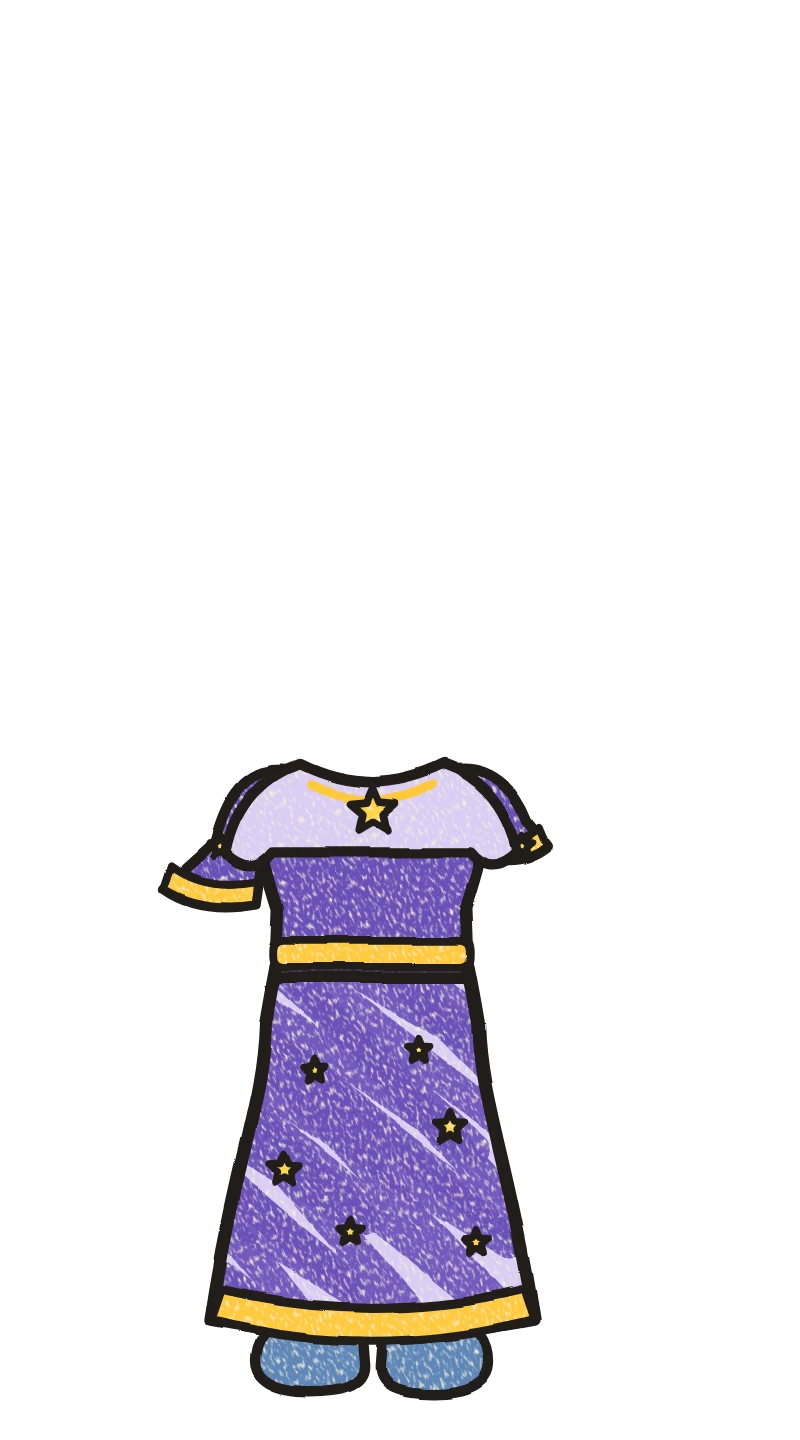
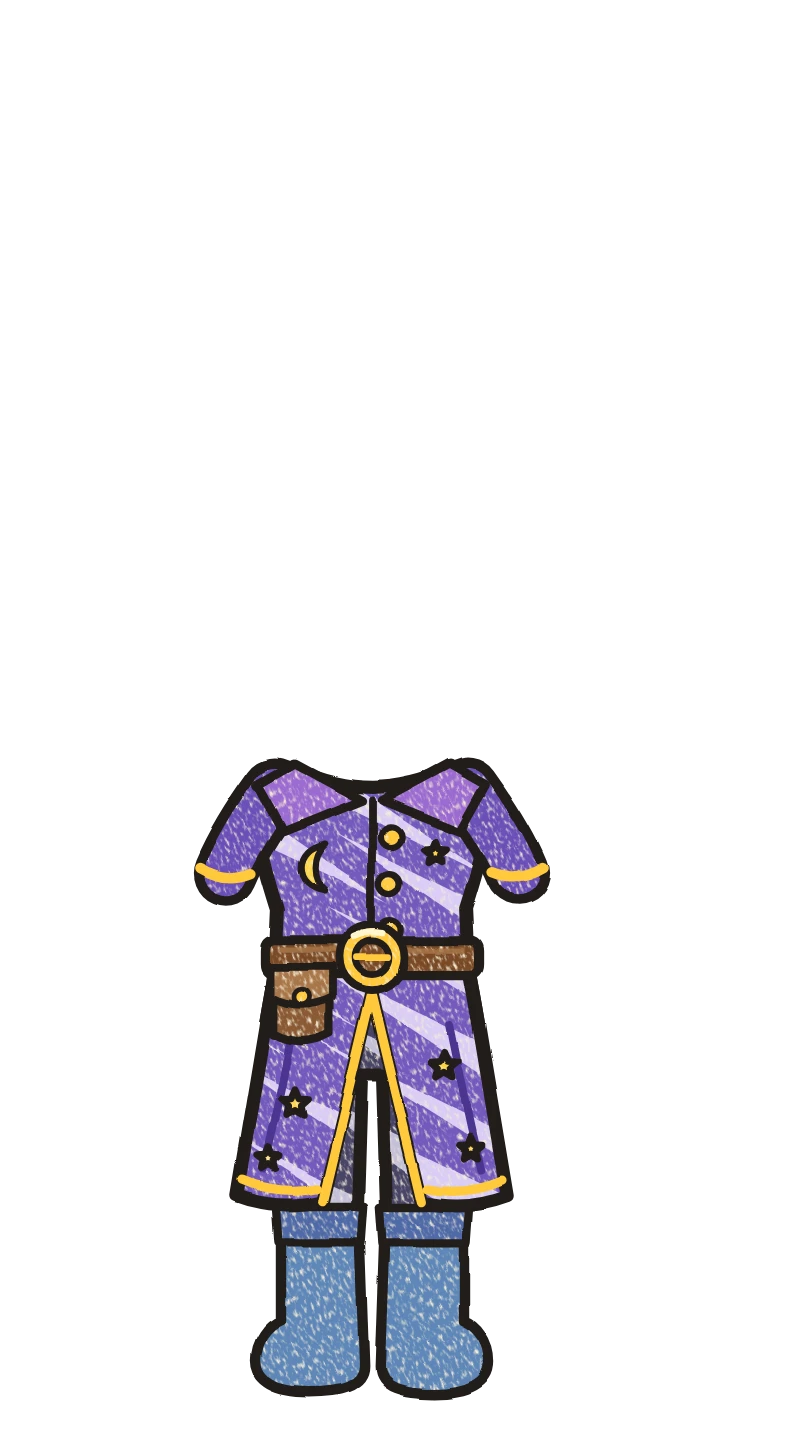
The prince's own wizard coat, star cape and scholar's coat

Changed region(s): [[0.1875, 0.5, 0.6875, 0.9375]]

diff --git a/src/profile/hero.js b/src/profile/hero.js
@@ -1,7 +1,7 @@
 export const HEROES = Object.freeze(['princess', 'prince']);
 
-export const SAME_OUTFITS = Object.freeze(['o-baker', 'o-sailor', 'o-beach', 'o-cape', 'o-raincoat', 'o-scout', 'o-star-cloak', 'o-conductor',
-  'o-moon-swim', 'o-cloud-cape', 'o-knight', 'o-tinker', 'o-ringmaster', 'o-librarian', 'o-pajamas']);
+export const SAME_OUTFITS = Object.freeze(['o-baker', 'o-sailor', 'o-beach', 'o-cape', 'o-raincoat', 'o-scout', 'o-conductor',
+  'o-moon-swim', 'o-cloud-cape', 'o-knight', 'o-tinker', 'o-ringmaster', 'o-pajamas']);
 
 export const heroOf = (profile) => (profile?.look?.hero === 'prince' ? 'prince' : 'princess');
 
